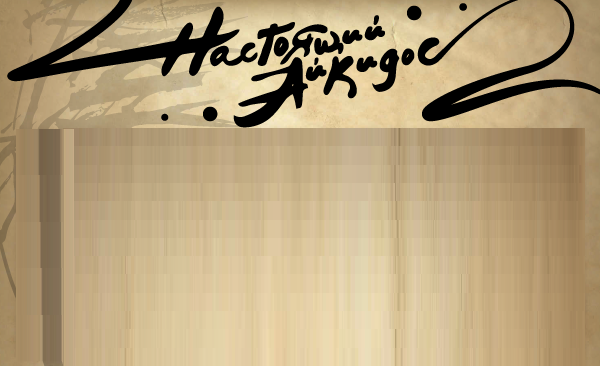
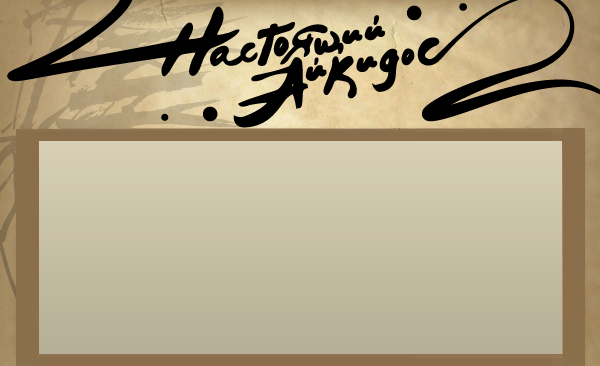
style: update main screen background and elements positions, update adaptaion for different screen sizes

diff --git a/src/components/AikidosGame.vue b/src/components/AikidosGame.vue
@@ -85,7 +85,7 @@ var first_table = false;
 
 // Positions of components
 var startGameButtonX = CANVAS_WIDTH / 2 - 110;
-var startGameButtonY = CANVAS_HEIGHT / 2;
+var startGameButtonY = CANVAS_HEIGHT / 2 + 80;
 var startGameButtonWidth = 220;
 var startGameButtonHeight = 50;
 
@@ -426,8 +426,8 @@ function render() {
     );
 
     var oldFont = context2D.font;
-    var xKoef = CANVAS_WIDTH / 2;
-    var yKoef = CANVAS_HEIGHT / 2 + 47;
+    var xKoef = startGameButtonX + 106;
+    var yKoef = startGameButtonY - 80;
     var fontSize = 17;
     var lineHeight = 20;
     context2D.font = "italic " + fontSize + "px serif";

diff --git a/src/css/game.css b/src/css/game.css
@@ -99,7 +99,7 @@
     transform: scale(1.12, 0.9);
   }
 }
-@media (max-height: 332px) {
+@media (max-height: 385px) {
   #game {
     transform: scale(1, 0.8);
   }
